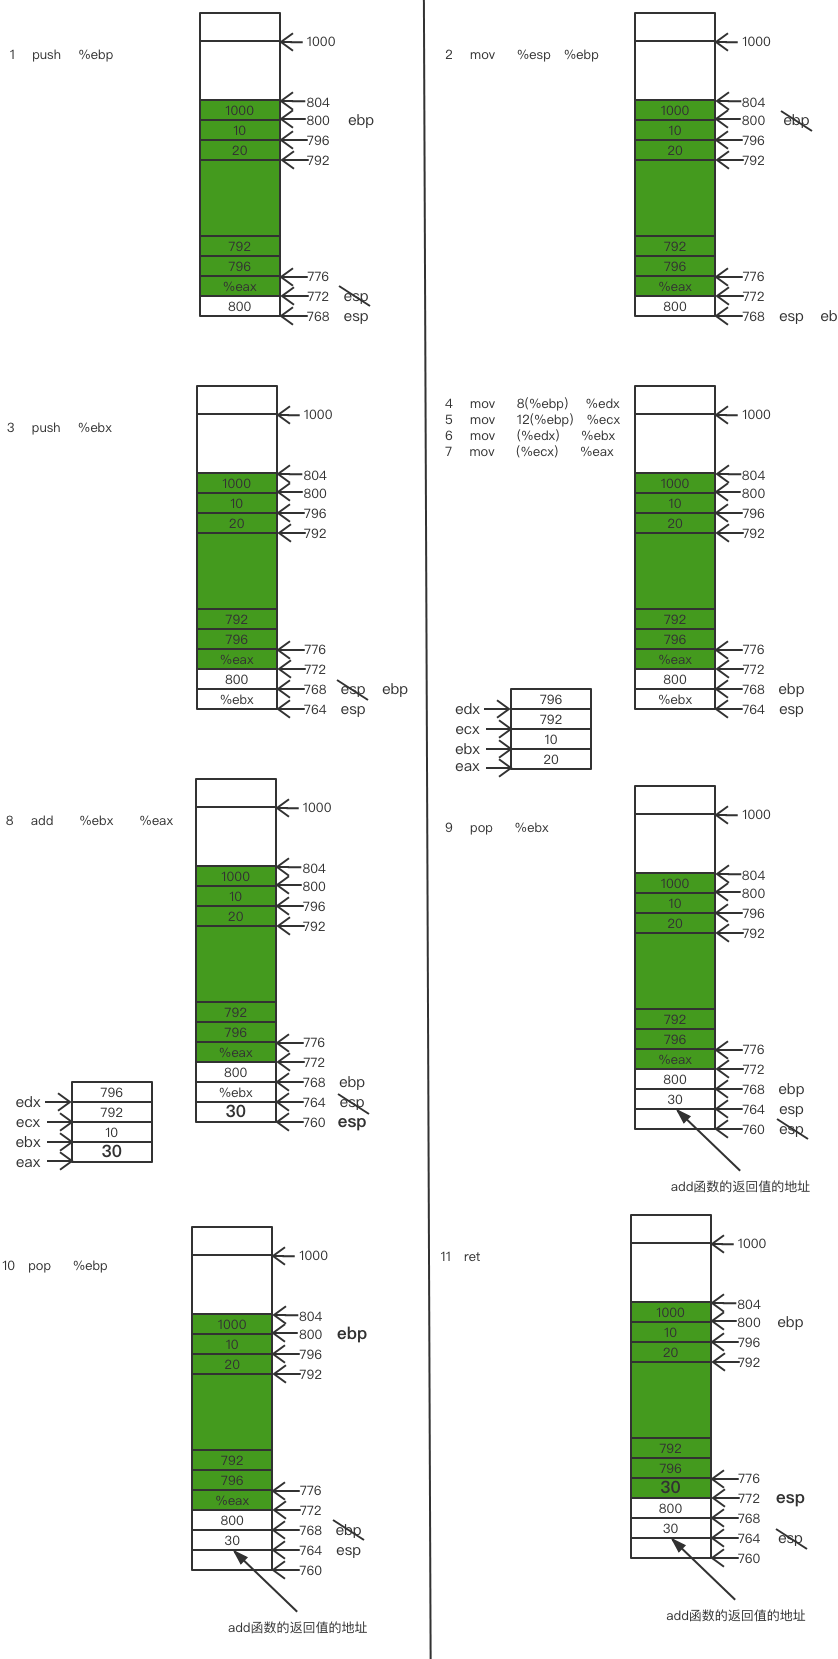
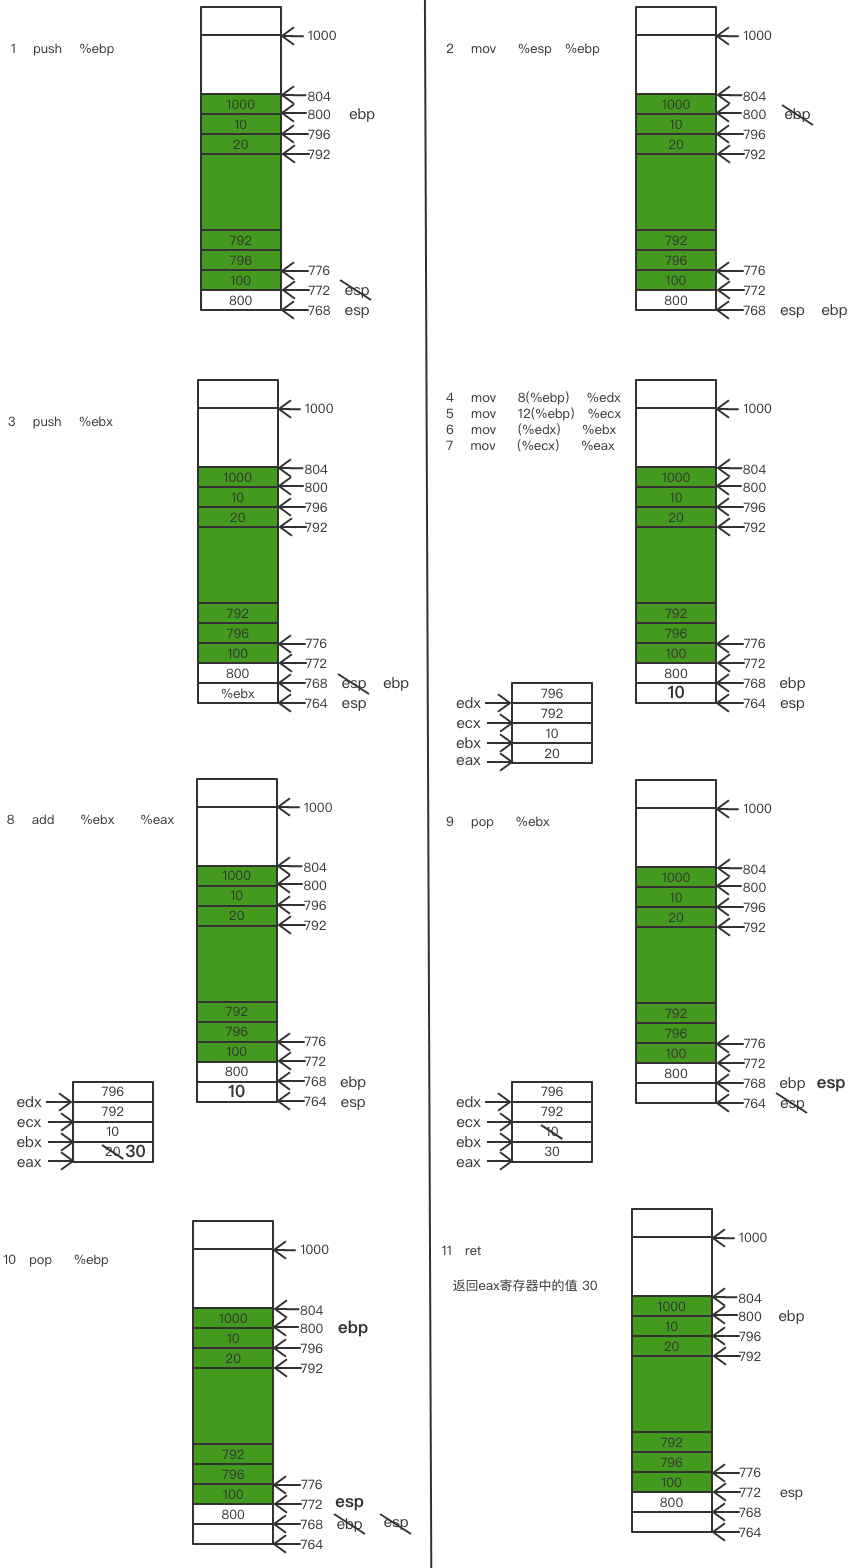
CSAPP C3-2 修正

diff --git a/src/CSAPP/Chapter03_程序的机器级表示_2.md b/src/CSAPP/Chapter03_程序的机器级表示_2.md
@@ -48,7 +48,10 @@ add:
 
 ## 汇编代码解析：
 ### 预备知识 
-### 1.了解寄存器
+### 1. 进程的虚拟地址空间
+![进程的虚拟地址空间](../../image/CSAPP/CSAPP_C3-2-3.png)
+
+### 2.了解寄存器
  - 一般寄存器
     1. AX(accumulator register) 累加寄存器（AH: AX寄存器的高8位，AL: AX寄存器的低8位）
     2. BX(base register) 基址寄存器
@@ -62,15 +65,16 @@ add:
     2. **esp**：(extended stack pointer) 栈指针寄存器（**指向栈顶**）
 
 e:(extended) 代表32位寄存器，占4个字节。
-### 2. 几个概念
+### 3. 几个概念
  - %esp: 【代表对当前esp(指针寄存器)的值的引用】
  - 问：如何判断内存/寄存器中存的是值还是地址？  
    答：寄存器中既可以存储一个数据值，也可以存储某一个指针的地址。看你mov进去的是什么。
 
-### 栈地址的生长方向：高地址-->低地址
+### 4. 栈地址的生长方向：高地址-->低地址
 所以栈顶位于低地址
 
-## 假设
+## 图解汇编
+### 假设
 1. 在执行demo函数之前，（调用demo函数的主函数的ebp的地址为1000）
 2. esp，当前的指向的地址为804
 3. add函数的(eax)返回值地址为100
